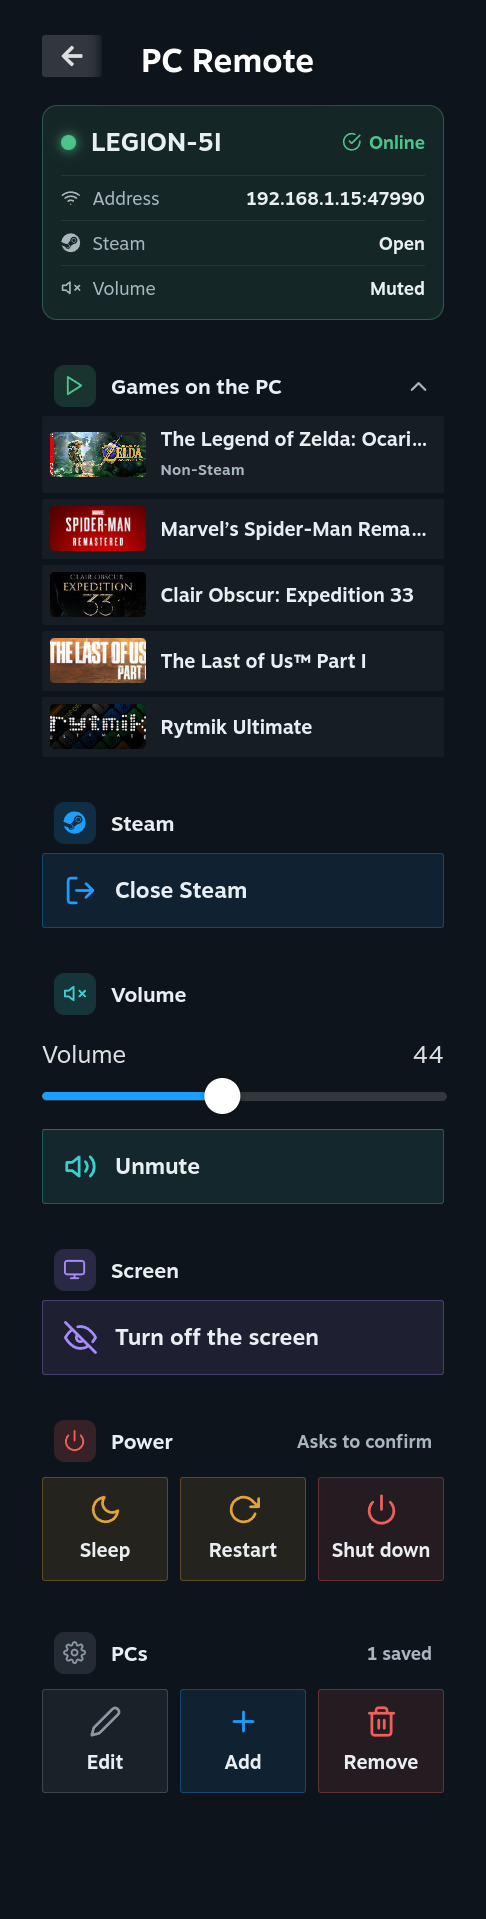
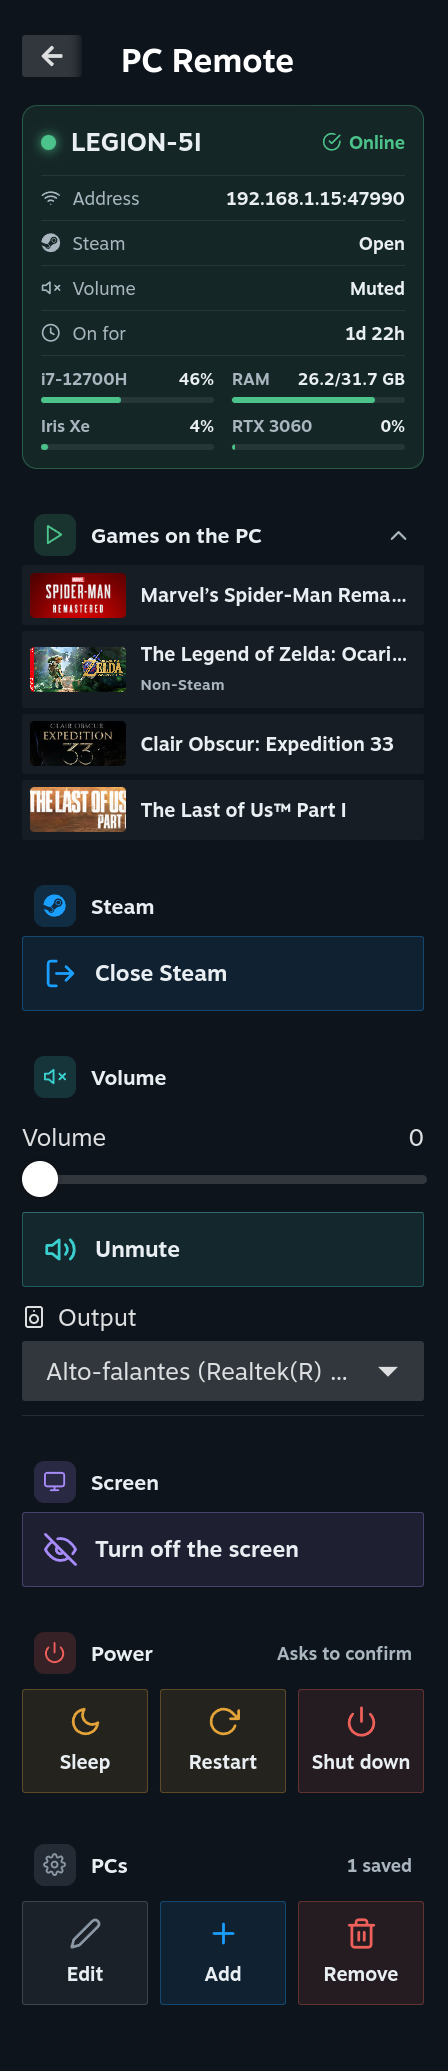
Refresh the panel screenshot with stats and the output picker

diff --git a/README.md b/README.md
@@ -28,7 +28,7 @@ Done: the panel shows your PC as **Online**. To update later, run both steps aga
 (the token stays the same).
 
 <p align="center">
-  <img src="docs/screenshots/panel.png" width="360" alt="The whole PC Remote panel on the Steam Deck: status card (LEGION-5I online, address, Steam open, volume muted); Games on the PC with Zelda (non-Steam, artwork set on the Deck), Spider-Man, Clair Obscur, The Last of Us and Rytmik; Close Steam; volume slider and Unmute; Turn off the screen; Sleep, Restart and Shut down; and Edit, Add, Remove for PCs">
+  <img src="docs/screenshots/panel.png" width="360" alt="The whole PC Remote panel on the Steam Deck: status card (LEGION-5I online, address, Steam open, volume muted, on for 1d 22h) with meters for the i7-12700H, RAM, Iris Xe and RTX 3060; Games on the PC with Spider-Man, Zelda (non-Steam, artwork set on the Deck), Clair Obscur and The Last of Us; Close Steam; volume slider, Unmute and the Output picker; Turn off the screen; Sleep, Restart and Shut down; and Edit, Add, Remove for PCs">
 </p>
 
 ## What it does
